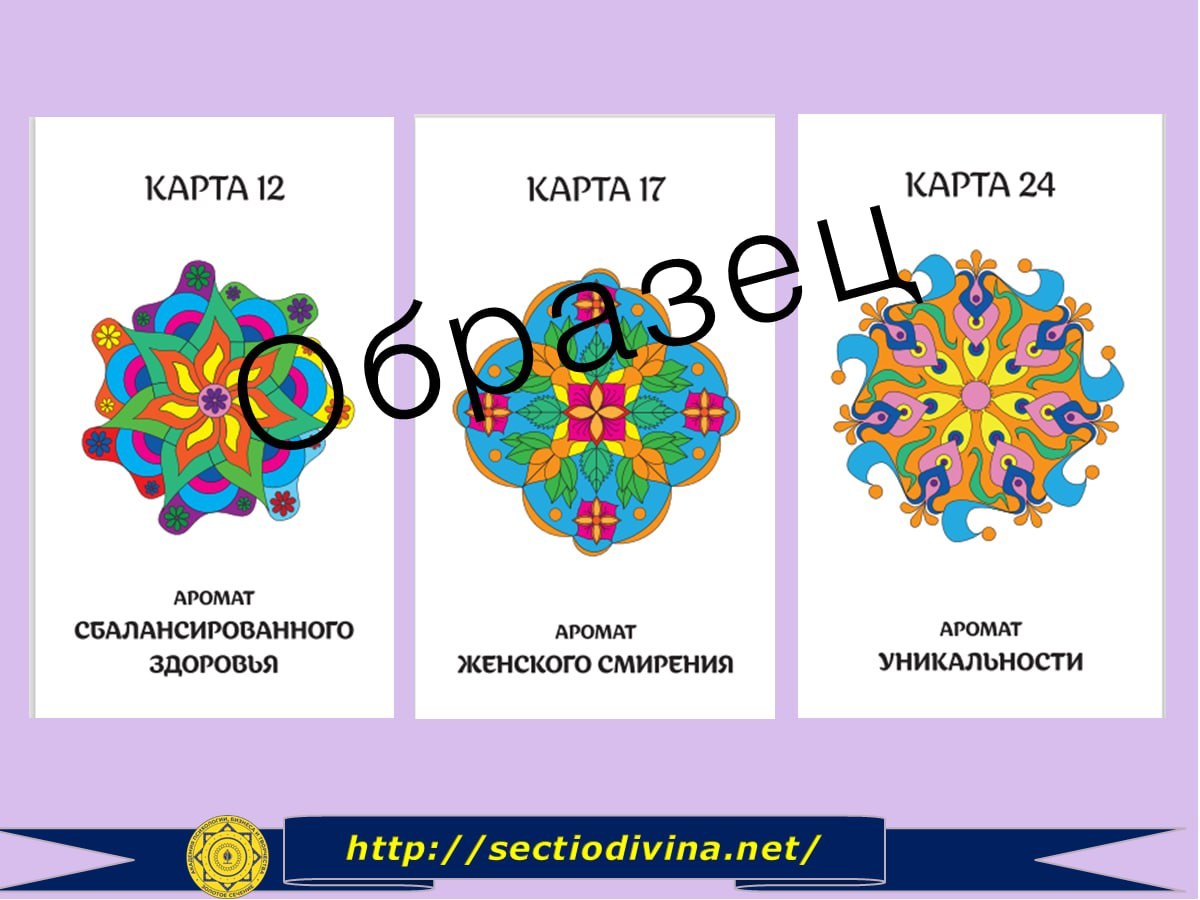
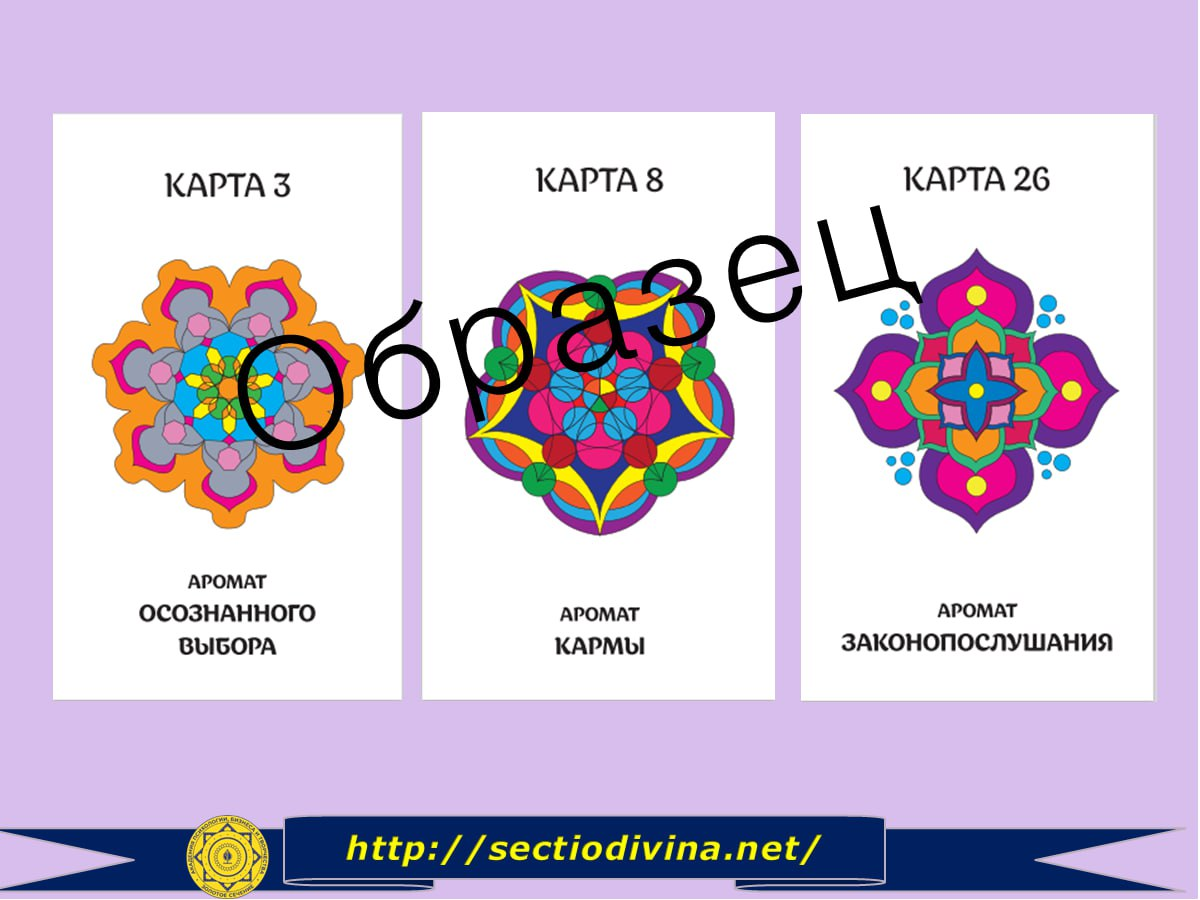
обновил код

diff --git a/index.html b/index.html
@@ -53,16 +53,17 @@
       <div class="position-card">
         <div class="info infos1" id="info1">
           <h1 class="main-text1">Карта № 1</h1>
-          <h2 class="main-text2">Аромат сбалансированного здоровья.</h2>
+          <h2 class="main-text2">Аромат осознанного выбора.</h2>
           <p class="cart1">
-            * Появление этой карты в раскладе говорит о том, что сейчас ваш организм нуждается в особом внимании и заботе. Спросите себя:
-- Как давно вы занимались своим здоровьем? 
-- Устраивает ли вас то, как вы себя чувствуете? 
-- Каково ваше эмоциональное, психическое состояние? 
-- Какой образ жизни вы сейчас ведете? Нет ли перекосов в какую-то одну из областей вашей жизни?
-- Как давно вы отдыхали?
-*Наш организм имеет огромный потенциал. Но и этот потенциал можно растерять, если вовремя не понять, что здоровьем нужно заниматься. Физические недомогания могут быть как результатом неправильного образа жизни, так и следствием наших поступков, эмоций, мыслей. Занимайтесь духовными практиками, радуйтесь каждому мгновенью вашей жизни. Благодарите, прощайте, отпускайте и принимайте все, что приходит к вам жизнь. 
-*При встречах и расставаниях с близкими нам людьми мы всегда желаем им хорошего здоровья, потому что это — главное условие полноценной и счастливой жизни.
+            * Появление этой карты в раскладе говорит о том, что вам сейчас нужно разобраться в своих представлениях об удовольствии и наслаждении.  Осознаете ли вы разницу между удовольствием и наслаждением? Как часто вы делаете над собой усилие для того, чтобы получать наслаждение жизнью. 
+*Несколько советов, как научиться наслаждаться жизнью:
+- Сосредоточьтесь на себе и своих потребностях;
+- Тратьте деньги на опыт, а не имущество;
+-  Попробуйте что-то новое;
+- Поддерживайте позитивное отношение к жизни;
+- Делайте выбор осознанно, отслеживайте, на что вы тратите время;
+- Развивайте силу воли;
+- Находите время для занятий любимым делом.
             <div class="number-cart">
               Пишите номер карты нам в ответном письме и получите доступ к медитации на платформе геткурс.
             </div> 
@@ -76,15 +77,10 @@
   
         <div class="info infos1" id="info2">
           <h4 class="main-text3">Карта № 2</h4>
-          <h5 class="main-text4">Аромат женского смирения.</h5>
+          <h5 class="main-text4">Аромат кармы.</h5>
           <p class="cart2">
-            *Появление этой карты в раскладе говорит о том, что сейчас на вашу жизненную ситуацию влияет дисбаланс Инь (женское начало) -Ян (мужское начало). 
-* Инь -Ян- женское и мужское, белое и черное, горячее и холодное - они всегда вместе и лишь в гармонии этих двух составляющих можно обрести состояние истинного счастья.
-*Если вы чувствуете апатию, инертность и безразличие к желаниям и стремлениям, то пришло время гармонизировать свой Ян, пока он сам не вырвался наружу!  Направьте свое внимание на спорт, который развивает силу воли, настойчивость, способность бороться. Занимайтесь танцами, подвижными играми. Не уходите от ответственности, действуйте!
-*Если вы чувствуете, что начали зависать в мыслях, идеях, находитесь в постоянной напряженной спешке, где-то проявляете агрессию, то начинайте осознанно уходить в Инь. Становитесь ведомым, уходите в ощущения тела без мыслей и в наслаждение от процесса. Попробуйте фантазировать, использовать интуицию, осознавайте собственные и чужие эмоции. Займитесь медитацией, йогой.
-*Это не значит, что пробужденное мужское начало сделает из женщины мужчину, и наоборот. Речь идет о балансе, гармонии и осознанности. Раскрыв свои дремлющие стороны личности, вы научитесь более эффективно действовать в разных ситуациях.
-*Какой бы тип энергии не превалировал, в вас обязательно есть и энергия другого типа, и ее нужно уважать. Если вы не признаете в себе наличие и мужского и женского начала, продолжаете эксплуатировать свою первичную энергию, неизбежны моменты, которые заставят вас остановиться и ощутить противоположное состояние. 
-*Если вы не уважаете Иньскую энергию – не принимаете периоды покоя, не цените состояние сосредоточенности и бездействия, то это может привести к глубокой депрессии, когда высвободившаяся наконец-то энергия Инь охватывает человека, парализуя его неразумную активность. 
+            *Появление этой карты в раскладе говорит о том, что вам сейчас нужно проработать законы кармы, понимая, что они проявляются на уровне тела, ума и энергии. Все, что вы делаете на этих трех уровнях, влияет на вас и оставляет определенный отпечаток.
+            *Понятие, что с «плохой кармой» сделать ничего невозможно, ошибочно. Благими намерениями, мыслями, поступками, мы можем изменить рисунок своей судьбы в лучшую сторону.
             <div class="number-cart">
               Пишите номер карты нам в ответном письме и получите доступ к медитации на платформе геткурс.
             </div> 
@@ -99,16 +95,12 @@
             Карта № 3 
           </h6>
           <h7 class="main-text6">
-            Аромат уникальности
+            Аромат законопослушания.
           </h7>
           <p class="cart3">
-            * Появление этой карты в раскладе говорит о том, что пришла пора понять свою уникальность, найти свой стиль, выразить свою индивидуальность. Возможно, у вас есть проблемы с проявлением себя, как личности.
-*Что же не дает проявить свою индивидуальность:
-- Детские установки, которые не позволяют верить в себя;
-- Гордыня, страхи, которые мешают быть самим собой;
-- Зацикленность на физическом мире, материальных проблемах;
-- Нежелание развиваться, раскрывать более глубокий уровень своего «Я» - уровень души.
-*Вы должны помнить, что обладаете огромным потенциалом, даже если вам кажется, что у вас нет никаких талантов. Если вы раскроете свою уникальность, примите свои индивидуальные особенности и позволите себе быть собой, то увидите сами, на что вы способны!
+            *Появление этой карты в раскладе говорит о том, что сейчас на вашу жизненную ситуацию влияет какой-то закон, который, как вы считаете, ограничивает вашу свободу или препятствует совершению вами каких-то действий.  Вы можете отдавать себе отчет о том, какой это закон, а, может быть даже не подозреваете о существовании такого закона, воспринимая то, что происходит, как случайные события. 
+            *Проанализируйте, как вы вообще относитесь к закону? Что вы думаете о соблюдении законов? Что для вас закон – свобода или ограничения?
+            *Если вы отследили у себя негативное отношение к законам, вспомните, что все в жизни имеет две стороны. И только вы сами можете сделать выбор в пользу позитива, принятия и свободы.
             <div class="number-cart">
               Пишите номер карты нам в ответном письме и получите доступ к медитации на платформе геткурс.
             </div> 
